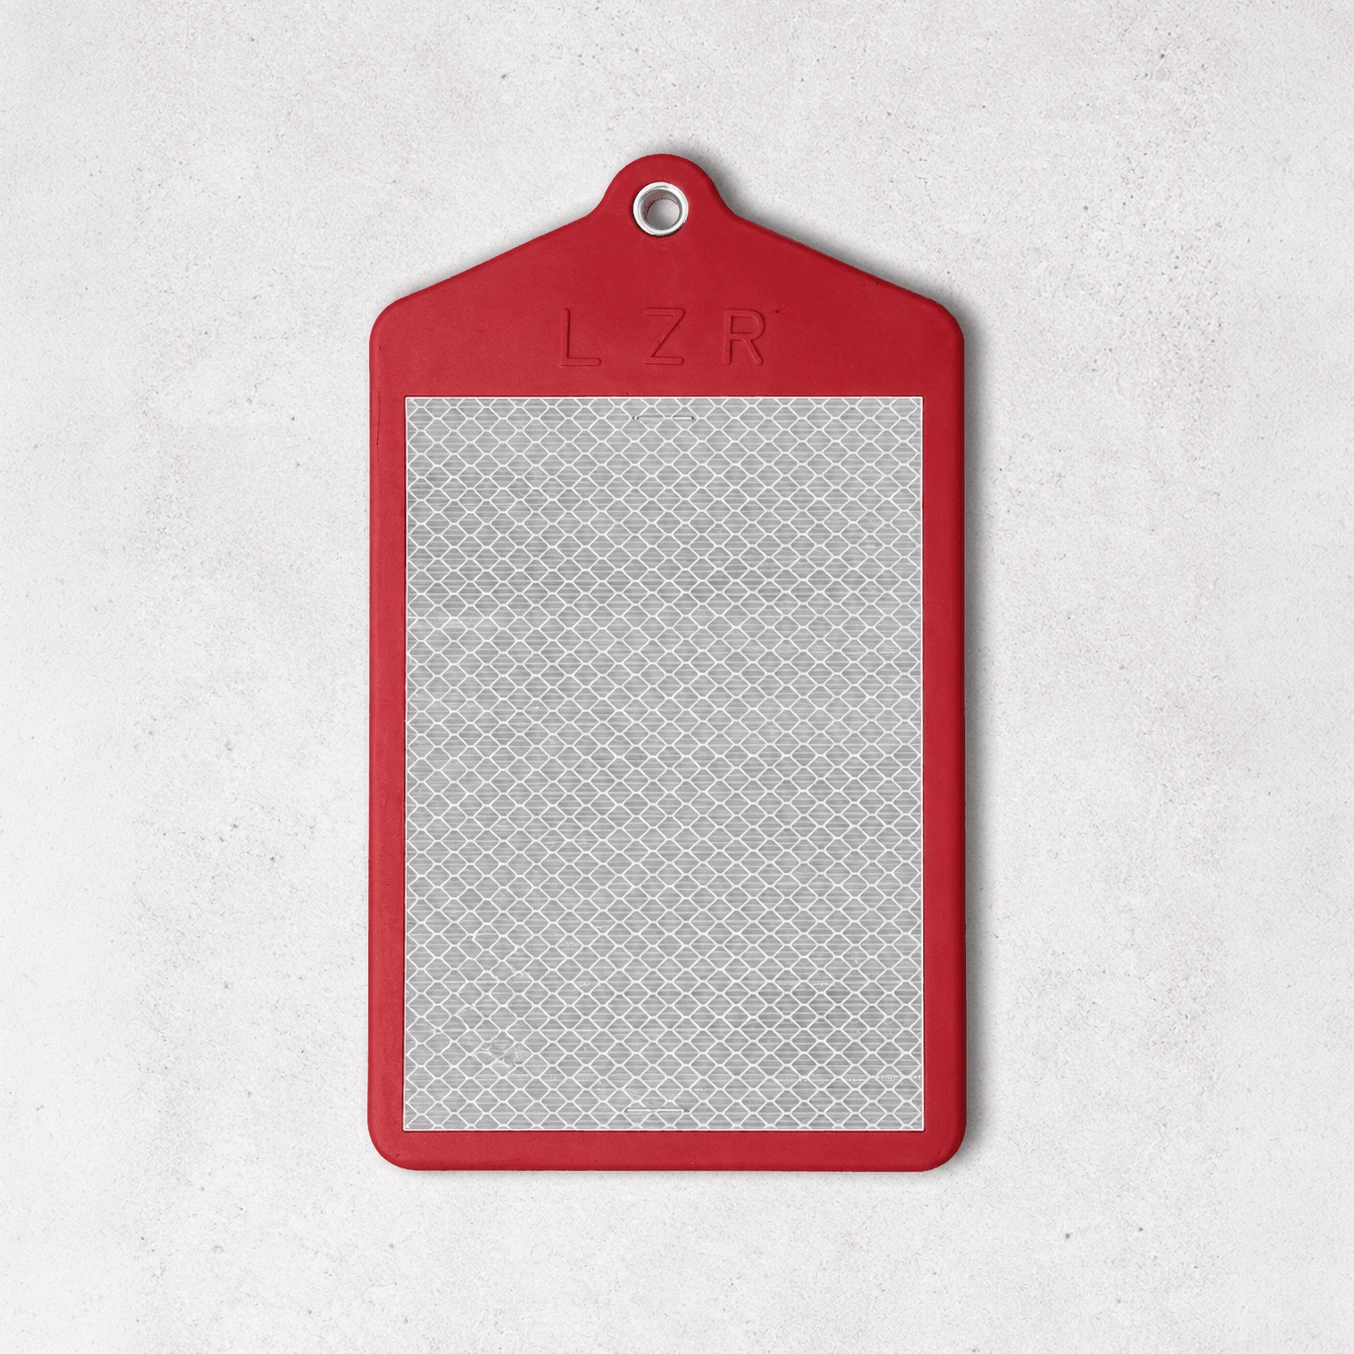
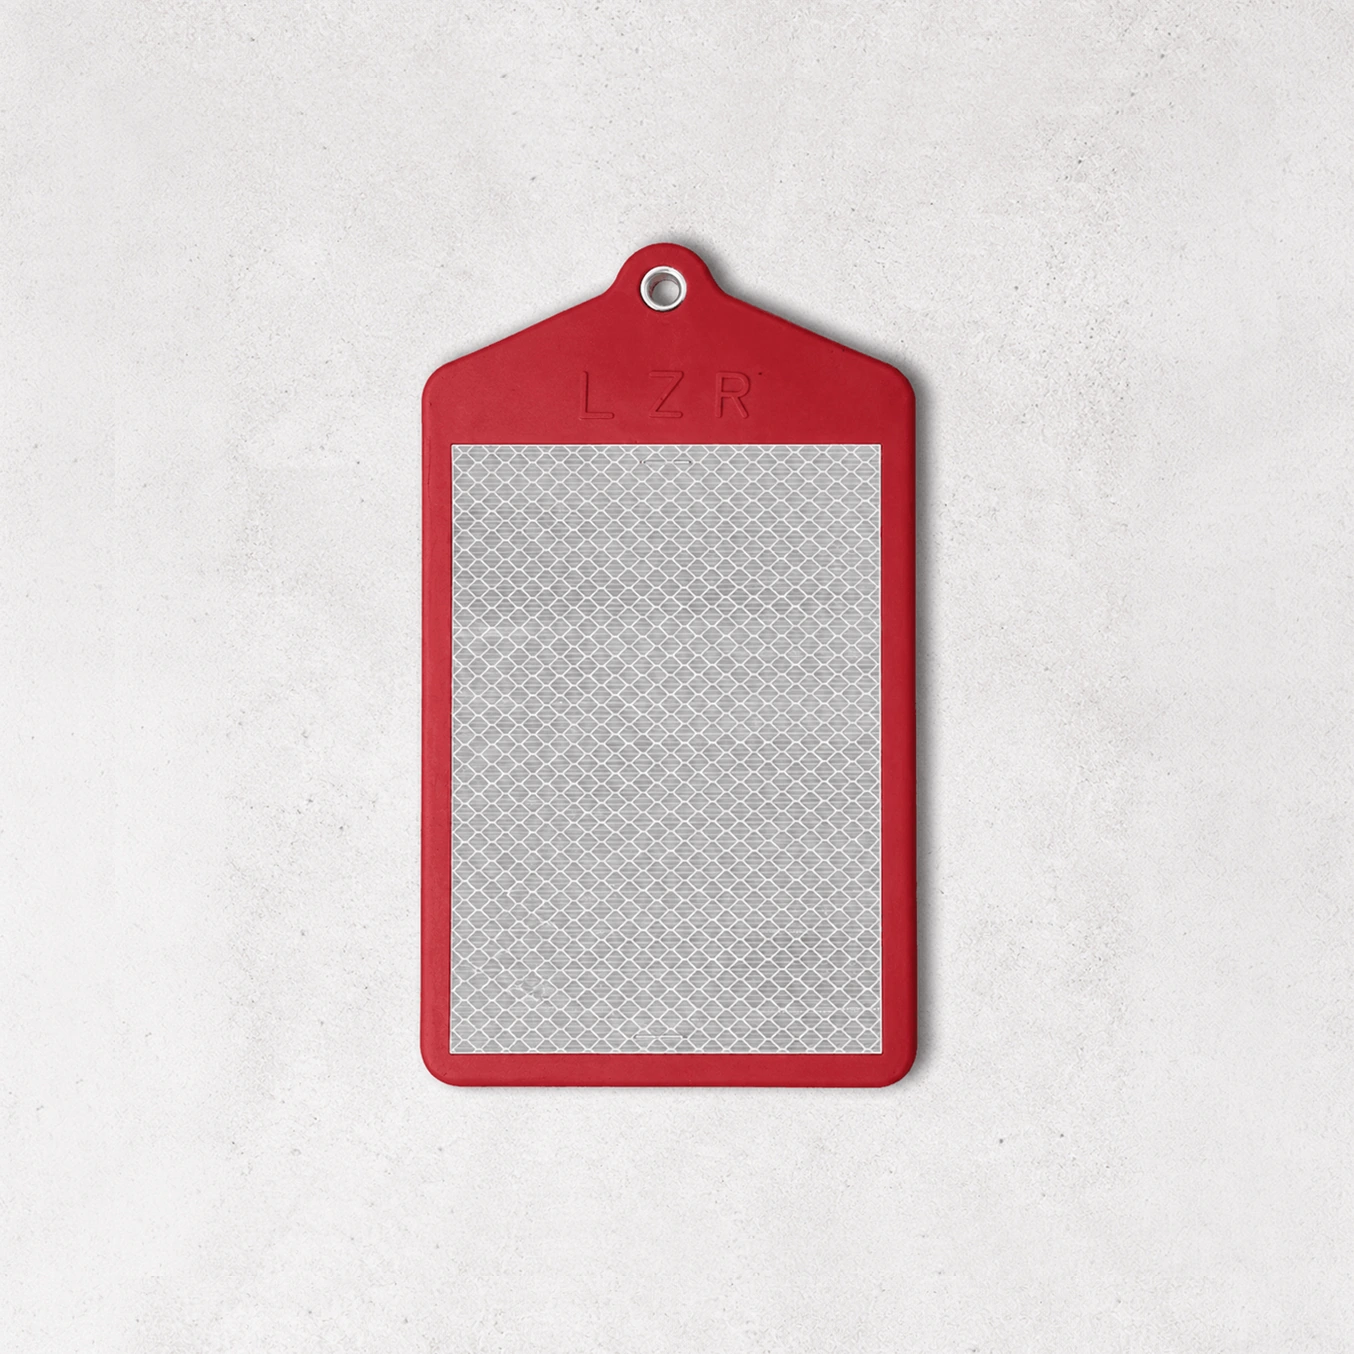
The 12 product photos have been added and are now live:
- Corrected LZR-001 and LZR-002 tag photos with proper proportions are included, encoded at high resolution to maintain sharpness.
- Pelican cases stack fills the SS-05 card, and your custom-equipment assortment shot fills the CUSTOM card — which were the last placeholders labeled "Photo coming soon."
- The catalogue is complete, with all 12 products showing real photography.
- Images loading have been checked, and screenshots taken of the corrected LZR-001 card, Pelican cases card mid-stack, and the CUSTOM card with its sentence — all rendering correctly. Pin, wipe, and stack behavior remains unchanged.
- As it's a fully static public site, there are no credentials or handoff needed.
- Please open the preview and scroll through the full catalogue to confirm no placeholders remain.

Next Action Items:

- **Legal Placeholders**: Replace the timeframe and warranty placeholders in the Privacy and Terms pages with final wording.
- **Cloudflare Pages Launch**: When satisfied, proceed to turn this static build into your live site on Cloudflare Pages.
- **GitHub Save**: Push the completed catalogue to your Lzr-Tag repo via Save to GitHub.
- **Contact Email Check**: Confirm that the consumables@egspatial.com address used in the legal pages is the one you want publicly displayed.

I have performed testing to the best of my capabilities; please verify in preview and let me know if any issues persist or if further adjustments are needed.
[…]

Changed region(s): [[0.2482, 0.0931, 0.7445, 0.8685]]

diff --git a/frontend/public/index.html b/frontend/public/index.html
@@ -72,7 +72,7 @@
                             <span class="product-num">01</span>
                         </div>
                         <div class="product-photo">
-                            <img src="./assets/products/lzr-001.webp?v=2" alt="LZR Tag survey laser protection device" loading="lazy" />
+                            <img src="./assets/products/lzr-001.webp?v=3" alt="LZR Tag survey laser protection device" loading="lazy" />
                         </div>
                         <div class="product-info">
                             <p class="product-cat">Survey Laser Protection Device</p>
@@ -98,7 +98,7 @@
                             <span class="product-num">02</span>
                         </div>
                         <div class="product-photo">
-                            <img src="./assets/products/lzr-002.webp?v=2" alt="LZR Tag Mini survey laser protection device" loading="lazy" />
+                            <img src="./assets/products/lzr-002.webp?v=3" alt="LZR Tag Mini survey laser protection device" loading="lazy" />
                         </div>
                         <div class="product-info">
                             <p class="product-cat">Survey Laser Protection Device</p>
@@ -222,8 +222,8 @@
                             <span class="product-sku">SKU: SS-05</span>
                             <span class="product-num">07</span>
                         </div>
-                        <div class="product-photo product-photo-empty">
-                            <span class="photo-placeholder" data-testid="photo-placeholder-ss-05">Photo coming soon</span>
+                        <div class="product-photo">
+                            <img src="./assets/products/ss-05.webp" alt="Stack of custom Pelican cases in red, yellow, grey and black" loading="lazy" />
                         </div>
                         <div class="product-info">
                             <p class="product-cat">Storage &amp; Accessories</p>
@@ -349,8 +349,8 @@
                             <span class="product-sku">SKU: CUSTOM</span>
                             <span class="product-num">12</span>
                         </div>
-                        <div class="product-photo product-photo-empty">
-                            <span class="photo-placeholder" data-testid="photo-placeholder-custom">Photo coming soon</span>
+                        <div class="product-photo">
+                            <img src="./assets/products/custom.webp" alt="Assortment of custom survey equipment and consumables" loading="lazy" />
                         </div>
                         <div class="product-info">
                             <p class="product-cat">Tools &amp; Services</p>

diff --git a/memory/PRD.md b/memory/PRD.md
@@ -63,3 +63,4 @@ Build a one-page industrial B2B landing page for LZR TAG, a mining consumables b
 - 2026-07 (round 30): Background fixes. (1) Dots leaked across the whole page: when round 29 made .hero position:static, .hero-dots (absolute, inset:0) re-scoped to the full-page .page-pin wrapper. Fix per user: .hero { position: relative; overflow: hidden } — dots (and the ::after blend strip, which had the same leak) are hero-scoped again; verified dotsH == heroH. (2) Post-release background fade: single background layer = body background-color, scrubbed in the same rAF paint loop (no GSAP re-added — plain scrub, no pinning involved): pageBg follows the hero grey->white during the pin, then white->products grey (#EFEFF1) over the 60vh after release (p2 = (scrollY - 50vh)/60vh, smoothstepped); hero dots opacity = pinProgress * (1 - fadeProgress) so they fade out over the same 60vh; .hero::after bottom stop now follows var(--page-bg) so the hero bottom always matches the page bg — no seam above card 1 at any scroll position. Verified @1440x800: white rgb(255,255,255) at release (400px), midway rgb(247,247,248) at +30vh (640px), grey rgb(239,239,241) from +60vh (880px) onward; dots 0 -> 1 -> 0.5 -> 0 across the same points; h1 frozen at 136px through the pin (pin untouched). Fallback (<768px + reduced-motion): hero white with dots visible, static 300px white-to-grey gradient at hero bottom (::after height 300px), no pin — verified at 390x844.
 - 2026-07 (round 31): Real product photography added (9 user-supplied images, SKU-mapped by the user's filenames). Downloaded from customer-assets, resized to max 1200px, converted to webp q82 (75-266KB each) into assets/products/: lzr-001 (red tag), lzr-002 (black Mini tag), ss-01 (sleeve cylinder), ss-02 (spigot rod), ss-03 (survey station triangle), nu-01 (eye-bolt), nu-02 (Knead It), nu-03 (SDS bits), nu-04 (yellow cattle tag — replaces its "Photo coming soon" placeholder; NU placeholders for nu-01/02/03 also replaced with real imgs). Old lzr/ss .png files left on disk but no longer referenced. Still placeholder: SS-05 Pelican Cases and CUSTOM (user sending more photos later); SS-04 keeps its existing image. All 10 card images verified loading (naturalWidth > 0) and rendering at 1440x800.
 - 2026-07 (round 32): Blurry-photo fix — user flagged LZR-001, LZR-002, SS-01, SS-02 (the four high-frequency subjects: prismatic reflective tape, brushed steel). Root cause: round 31's webp q82 + downscale-to-1200 smoothed the fine texture. Re-encoded those four from the original PNGs at NATIVE resolution (1086-1448px, no downscale), webp quality 93 method 6 (294-476KB each); verified via side-by-side 500px centre crops that the q93 encode is visually indistinguishable from the originals. Added ?v=2 cache-busters to those 4 img srcs so returning browsers pick up the new files. Other 5 product images unchanged (q82 fine for them). Verified rendering sharp at 1440x800 (lzr-001 renders 487x443 from 1354px source).
+- 2026-07 (round 33): Final 4 photos — corrected-sizing LZR-001 (1354px) and LZR-002 (1372px) re-uploads replaced the first versions (cache-busters bumped to ?v=3); SS-05 Custom Pelican Cases (custom-case-600x600.png) and CUSTOM card (custom-600x600.png) placeholders replaced with real imgs. All encoded webp q93 native-res. Catalogue complete: 12/12 products with real photos, zero photo placeholders remain. Verified at 1440x800: both tag cards, SS-05 mid-stack, and CUSTOM pinned with the sentence all render correctly.
